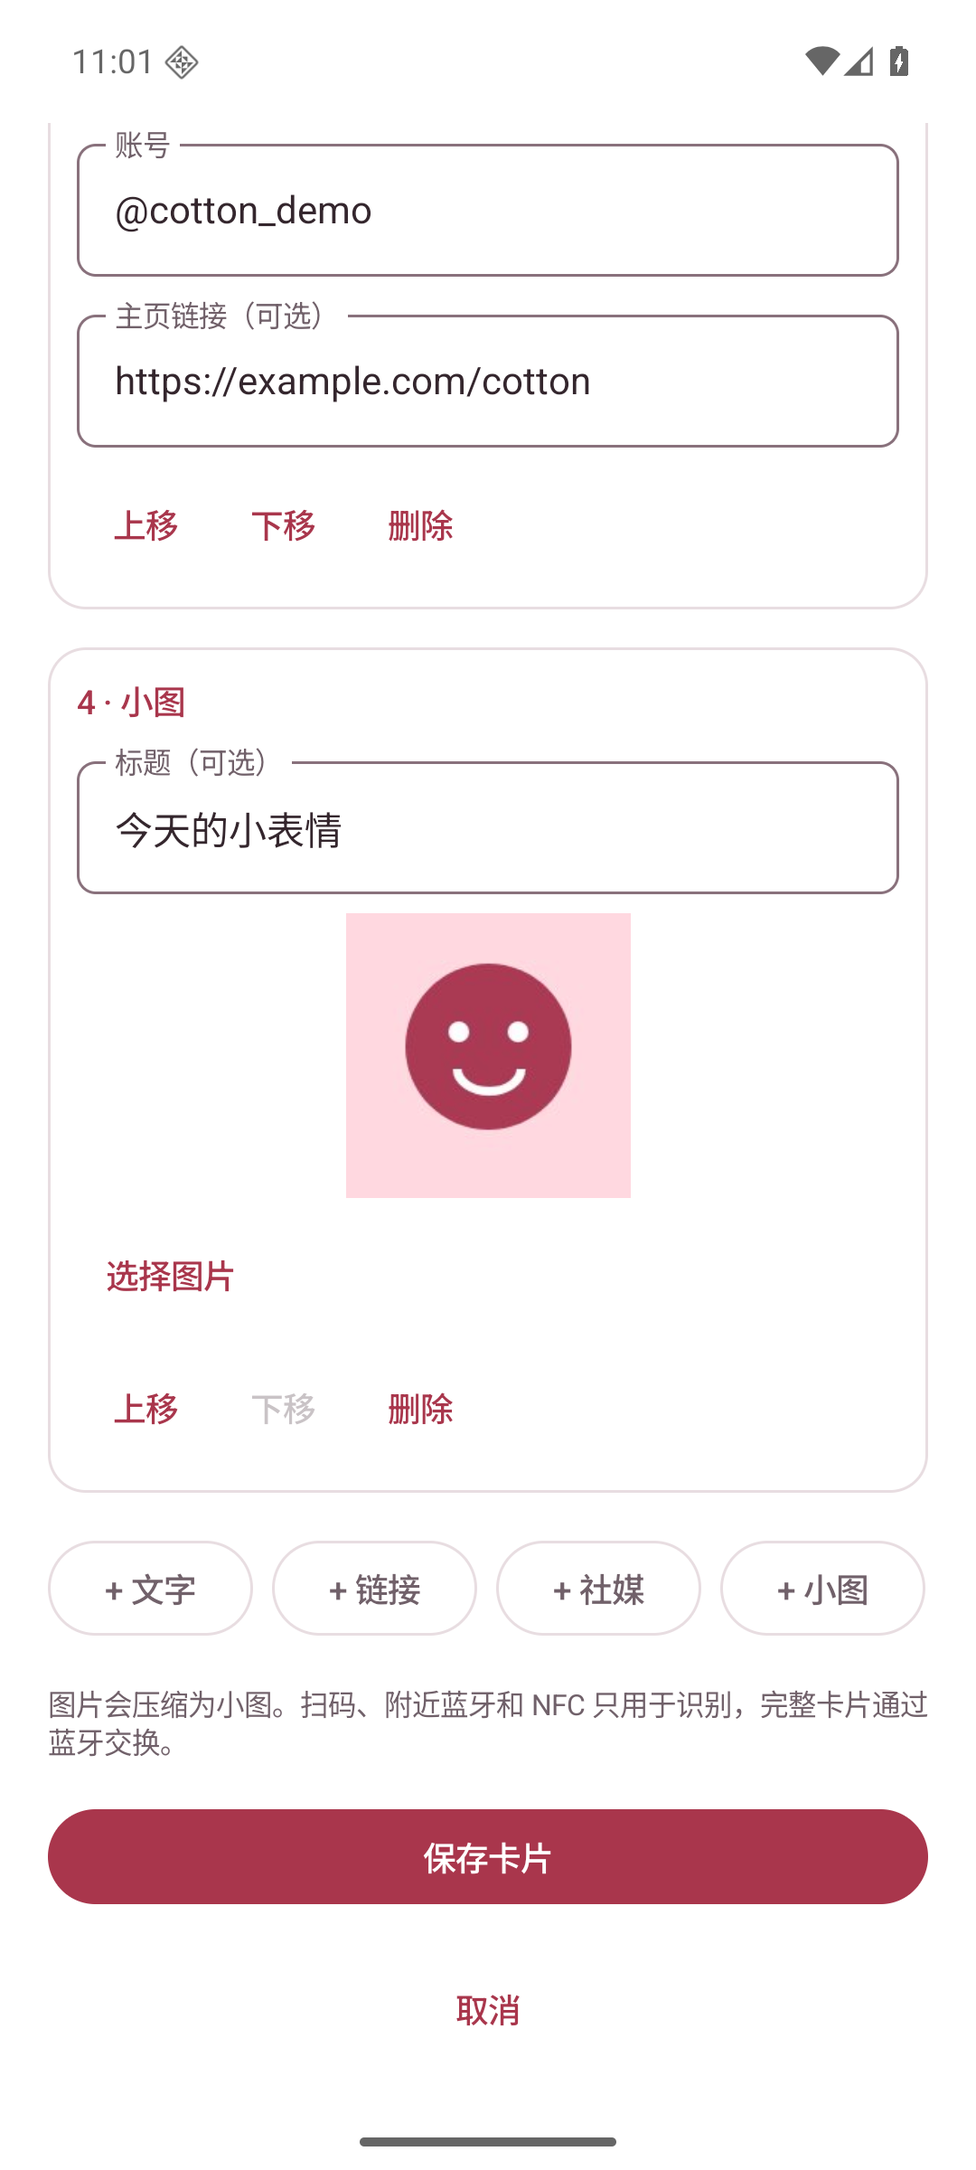
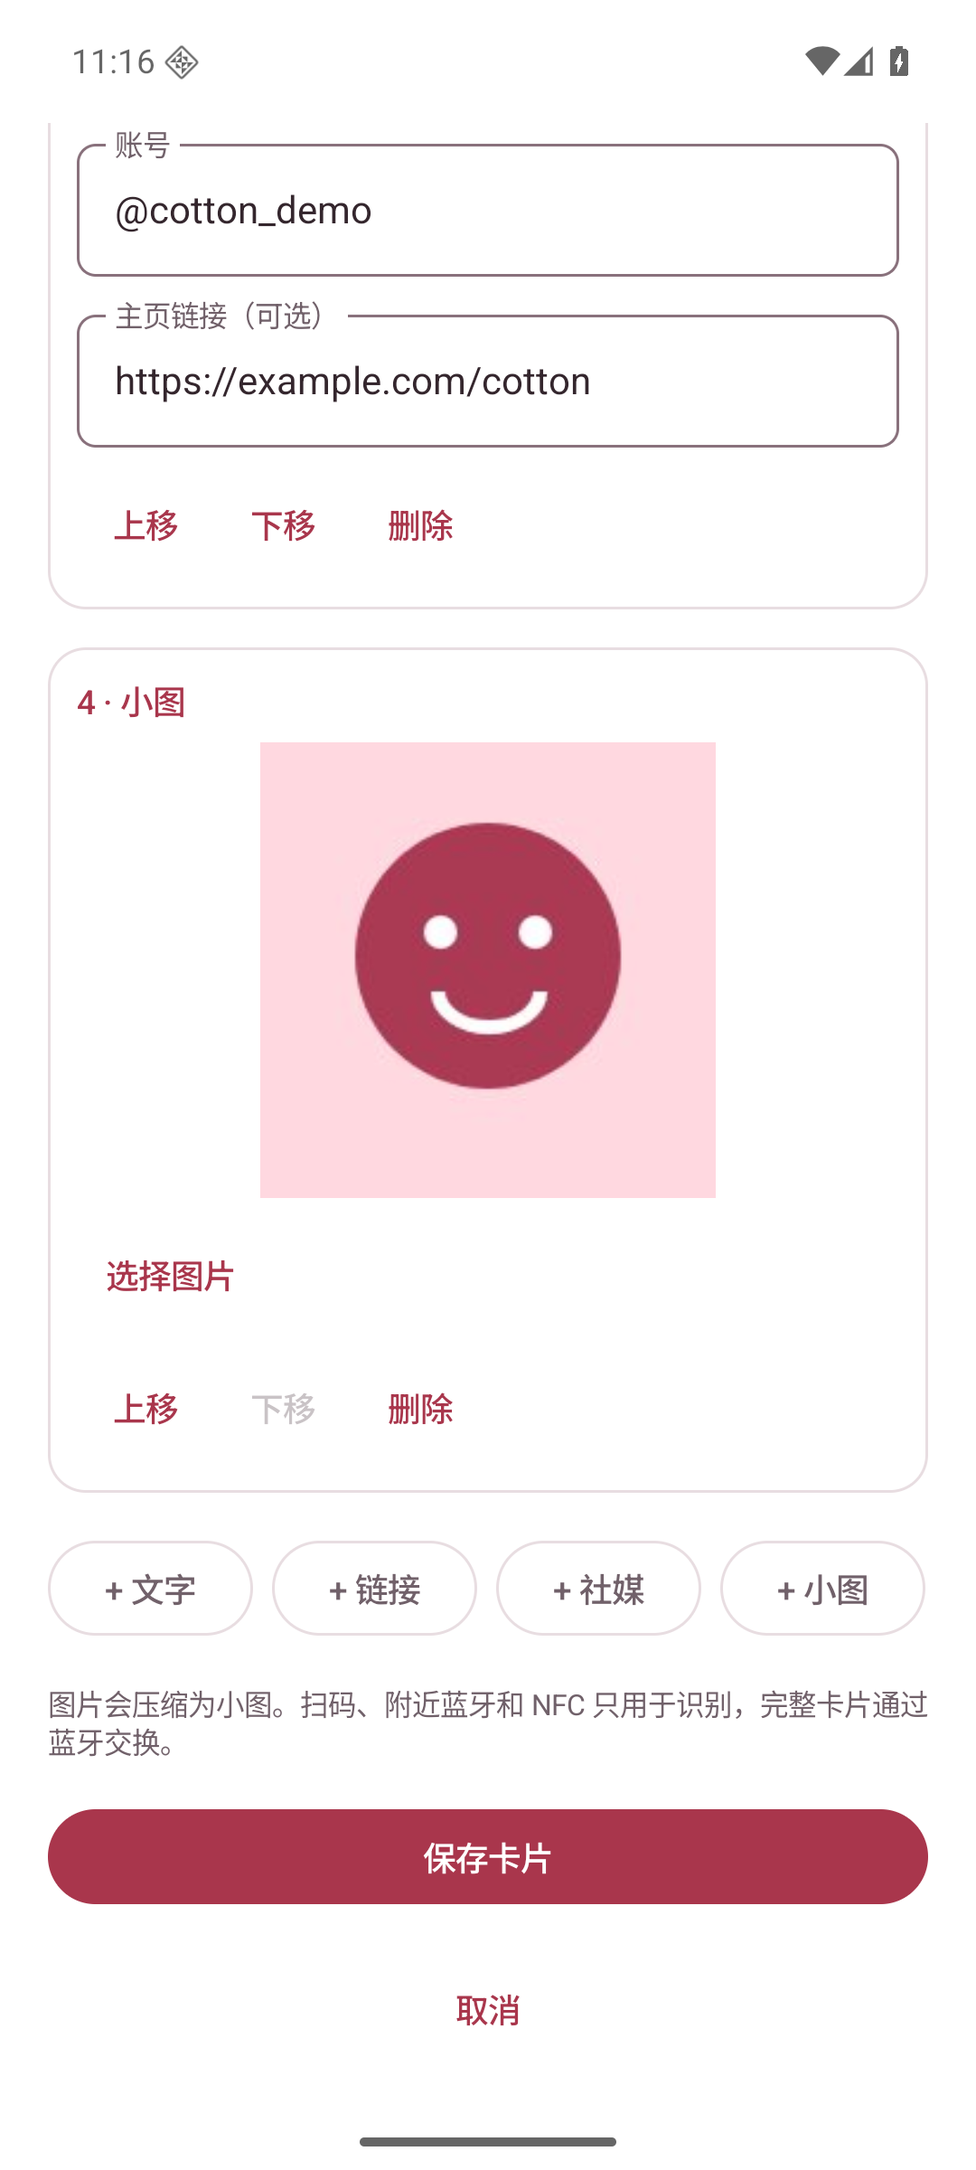
fix: 小图仅展示图片并保留透明轮廓

Changed region(s): [[0.1222, 0.3438, 0.7333, 0.5625], [0.1222, 0.0, 0.1528, 0.0312]]

diff --git a/app/src/main/kotlin/app/pengwa/ui/UserCard.kt b/app/src/main/kotlin/app/pengwa/ui/UserCard.kt
@@ -47,14 +47,12 @@ internal fun UserCardContent(identity: Identity) {
             Text(identity.displayName, style = MaterialTheme.typography.titleLarge)
         }
         identity.card.blocks.forEach { block ->
-            Surface(shape = MaterialTheme.shapes.medium, color = MaterialTheme.colorScheme.surfaceContainer) {
+            if (block.type == BlockType.Image) {
+                CardImage(block.image, block.title.ifBlank { "卡片图片" })
+            } else Surface(shape = MaterialTheme.shapes.medium, color = MaterialTheme.colorScheme.surfaceContainer) {
                 Column(Modifier.fillMaxWidth().padding(16.dp), verticalArrangement = Arrangement.spacedBy(8.dp)) {
                     if (block.title.isNotBlank()) Text(block.title, style = MaterialTheme.typography.titleSmall)
-                    if (block.type == BlockType.Image) {
-                        val image = remember(block.image) { CardImages.decode(block.image) }
-                        if (image != null) Image(image.asImageBitmap(), block.title.ifBlank { "卡片图片" }, Modifier.fillMaxWidth().heightIn(max = 240.dp), contentScale = ContentScale.Fit)
-                        else Text("图片无法显示")
-                    } else if (block.type != BlockType.Link) Text(block.text, style = MaterialTheme.typography.bodyMedium)
+                    if (block.type != BlockType.Link) Text(block.text, style = MaterialTheme.typography.bodyMedium)
                     val url = if (block.type == BlockType.Link) block.text else block.url
                     if (CardCodec.validLink(url)) TextButton(onClick = {
                         runCatching { uriHandler.openUri(url) }.onFailure { error = "无法打开链接，请检查是否安装浏览器" }
@@ -63,6 +61,21 @@ internal fun UserCardContent(identity: Identity) {
             }
         }
         error?.let { Text(it, color = MaterialTheme.colorScheme.error) }
+    }
+}
+
+/** Scale to the available space without cropping, shaping, or painting behind transparent pixels. */
+@Composable
+private fun CardImage(value: String, description: String) {
+    val image = remember(value) { CardImages.decode(value) }
+    if (image == null) {
+        Text("图片无法显示", color = MaterialTheme.colorScheme.onSurfaceVariant)
+        return
+    }
+    BoxWithConstraints(Modifier.fillMaxWidth(), contentAlignment = Alignment.Center) {
+        val ratio = image.width.toFloat() / image.height
+        val width = minOf(maxWidth, image.width.dp, 240.dp * ratio)
+        Image(image.asImageBitmap(), description, Modifier.width(width).aspectRatio(ratio), contentScale = ContentScale.Fit)
     }
 }
 
@@ -130,12 +143,11 @@ internal fun CardEditorContent(
                 OutlinedCard(Modifier.fillMaxWidth()) {
                     Column(Modifier.padding(12.dp), verticalArrangement = Arrangement.spacedBy(8.dp)) {
                         Text("${index + 1} · ${block.type.label()}", style = MaterialTheme.typography.labelLarge, color = MaterialTheme.colorScheme.primary)
-                        OutlinedTextField(block.title, { changeBlock(index, block.copy(title = it)) }, label = { Text(if (block.type == BlockType.Social) "社媒平台" else "标题（可选）") }, modifier = Modifier.fillMaxWidth())
+                        if (block.type != BlockType.Image) OutlinedTextField(block.title, { changeBlock(index, block.copy(title = it)) }, label = { Text(if (block.type == BlockType.Social) "社媒平台" else "标题（可选）") }, modifier = Modifier.fillMaxWidth())
                         if (block.type != BlockType.Image) OutlinedTextField(block.text, { changeBlock(index, block.copy(text = it)) }, label = { Text(when (block.type) { BlockType.Link -> "https://…"; BlockType.Social -> "账号"; else -> "文字内容" }) }, modifier = Modifier.fillMaxWidth())
                         if (block.type == BlockType.Social) OutlinedTextField(block.url, { changeBlock(index, block.copy(url = it)) }, label = { Text("主页链接（可选）") }, modifier = Modifier.fillMaxWidth())
                         if (block.type == BlockType.Image) {
-                            val image = remember(block.image) { CardImages.decode(block.image) }
-                            if (image != null) Image(image.asImageBitmap(), "已选择的图片", Modifier.fillMaxWidth().height(120.dp), contentScale = ContentScale.Fit)
+                            if (block.image.isNotEmpty()) CardImage(block.image, "已选择的图片")
                             TextButton(onClick = { imageTarget = index; picker.launch(PickVisualMediaRequest(ActivityResultContracts.PickVisualMedia.ImageOnly)) }, enabled = !loading) { Text("选择图片") }
                         }
                         Row {

diff --git a/app/src/debug/kotlin/app/pengwa/ui/CustomCardPreview.kt b/app/src/debug/kotlin/app/pengwa/ui/CustomCardPreview.kt
@@ -16,10 +16,11 @@ import java.io.ByteArrayOutputStream
 import java.util.Base64
 import java.util.UUID
 
-private fun sampleImage(): String {
-    val bitmap = Bitmap.createBitmap(192, 192, Bitmap.Config.ARGB_8888)
+private fun sampleImage(width: Int = 192, height: Int = 192, transparent: Boolean = false): String {
+    val bitmap = Bitmap.createBitmap(width, height, Bitmap.Config.ARGB_8888)
     val canvas = Canvas(bitmap)
-    canvas.drawColor(0xffffd9df.toInt())
+    canvas.scale(width / 192f, height / 192f)
+    if (!transparent) canvas.drawColor(0xffffd9df.toInt())
     val paint = Paint(Paint.ANTI_ALIAS_FLAG).apply { color = 0xffaa3953.toInt() }
     canvas.drawCircle(96f, 90f, 56f, paint)
     paint.color = 0xffffffff.toInt()
@@ -27,7 +28,7 @@ private fun sampleImage(): String {
     canvas.drawCircle(116f, 80f, 7f, paint)
     canvas.drawArc(75f, 90f, 118f, 120f, 0f, 180f, false, paint.apply { style = Paint.Style.STROKE; strokeWidth = 6f })
     return ByteArrayOutputStream().use { output ->
-        bitmap.compress(Bitmap.CompressFormat.JPEG, 85, output)
+        bitmap.compress(if (transparent) Bitmap.CompressFormat.PNG else Bitmap.CompressFormat.JPEG, 85, output)
         bitmap.recycle()
         Base64.getEncoder().encodeToString(output.toByteArray())
     }
@@ -40,15 +41,22 @@ private fun sampleCard() = Identity(UUID(0L, 1L), "小棉花", CardContent(sampl
     CardBlock(BlockType.Image, "今天的小表情", image = sampleImage()),
 )), cardComplete = true)
 
+private fun imageShapesCard() = Identity(UUID(0L, 1L), "小棉花", CardContent(blocks = listOf(
+    CardBlock(BlockType.Image, "横向小图", image = sampleImage(240, 80)),
+    CardBlock(BlockType.Image, "竖向小图", image = sampleImage(64, 192)),
+    CardBlock(BlockType.Image, "透明圆形小图", image = sampleImage(160, 160, transparent = true)),
+    CardBlock(BlockType.Image, "方形小图", image = sampleImage(96, 96)),
+)), cardComplete = true)
+
 @Composable
 internal fun CustomCardPreview(screen: String) {
-    var identity by remember { mutableStateOf(sampleCard()) }
+    var identity by remember { mutableStateOf(if (screen.startsWith("card-images")) imageShapesCard() else sampleCard()) }
     PreviewSurface {
         when (screen) {
-            "card-editor" -> Box(Modifier.systemBarsPadding()) {
+            "card-editor", "card-images-editor" -> Box(Modifier.systemBarsPadding()) {
                 CardEditorContent(identity, { identity = it }, { CardCodec.validate(identity.card) }, {})
             }
-            "card-received" -> ContactDetails(Contact(identity.id, identity.displayName, 1761955200000L, 1761955200000L, 2, identity.card)) {}
+            "card-received", "card-images-received" -> ContactDetails(Contact(identity.id, identity.displayName, 1761955200000L, 1761955200000L, 2, identity.card)) {}
             else -> Column(Modifier.systemBarsPadding().verticalScroll(rememberScrollState()).padding(20.dp), verticalArrangement = Arrangement.spacedBy(16.dp)) {
                 Text("我的卡片", style = MaterialTheme.typography.headlineSmall)
                 UserCardContent(identity)

diff --git a/app/src/main/kotlin/app/pengwa/identity/CardImages.kt b/app/src/main/kotlin/app/pengwa/identity/CardImages.kt
@@ -17,14 +17,30 @@ object CardImages {
             decoder.setTargetSize(maxOf(1, (info.size.width * scale).toInt()), maxOf(1, (info.size.height * scale).toInt()))
             decoder.allocator = ImageDecoder.ALLOCATOR_SOFTWARE
         }
+        val preserveAlpha = !avatar && bitmap.hasAlpha()
+        var current = bitmap
         try {
-            for (quality in listOf(85, 65, 45, 25)) {
-                val out = ByteArrayOutputStream()
-                bitmap.compress(Bitmap.CompressFormat.JPEG, quality, out)
-                if (out.size() <= CardCodec.MAX_IMAGE_BYTES) return Base64.getEncoder().encodeToString(out.toByteArray())
+            while (true) {
+                val qualities = if (preserveAlpha) listOf(100) else listOf(85, 65, 45, 25)
+                for (quality in qualities) {
+                    val out = ByteArrayOutputStream()
+                    current.compress(if (preserveAlpha) Bitmap.CompressFormat.PNG else Bitmap.CompressFormat.JPEG, quality, out)
+                    if (out.size() <= CardCodec.MAX_IMAGE_BYTES) return Base64.getEncoder().encodeToString(out.toByteArray())
+                }
+                if (current.width == 1 && current.height == 1) error("图片无法压缩，请选择其他图片")
+                // Recompute both sides from the original aspect ratio, including very narrow images.
+                val longest = (maxOf(current.width, current.height) * 0.75f).toInt().coerceAtLeast(1)
+                val scale = longest.toFloat() / maxOf(bitmap.width, bitmap.height)
+                val smaller = Bitmap.createScaledBitmap(bitmap,
+                    (bitmap.width * scale).toInt().coerceAtLeast(1),
+                    (bitmap.height * scale).toInt().coerceAtLeast(1), true)
+                if (current !== bitmap) current.recycle()
+                current = smaller
             }
-            error("图片过于复杂，请选择更小的图片")
-        } finally { bitmap.recycle() }
+        } finally {
+            if (current !== bitmap) current.recycle()
+            bitmap.recycle()
+        }
     }
 
     fun decode(value: String): Bitmap? = runCatching {

diff --git a/app/src/main/kotlin/app/pengwa/identity/UserCard.kt b/app/src/main/kotlin/app/pengwa/identity/UserCard.kt
@@ -9,7 +9,7 @@ import java.io.DataOutputStream
 import java.net.URI
 import java.util.Base64
 
-/** Images are bounded JPEG thumbnails, embedded so received cards work offline. */
+/** Images are bounded JPEG/PNG thumbnails, embedded so received cards work offline. */
 enum class BlockType { Text, Link, Social, Image }
 data class CardBlock(val type: BlockType, val title: String = "", val text: String = "", val image: String = "", val url: String = "")
 data class CardContent(val avatar: String = "", val blocks: List<CardBlock> = emptyList())
@@ -29,8 +29,13 @@ object CardCodec {
         if (value.isEmpty()) return true
         if (value.length > MAX_IMAGE_BYTES * 4 / 3 + 4) return false
         val bytes = runCatching { Base64.getDecoder().decode(value) }.getOrNull() ?: return false
-        return bytes.size in 4..MAX_IMAGE_BYTES && bytes[0] == 0xff.toByte() && bytes[1] == 0xd8.toByte() &&
+        if (bytes.size !in 4..MAX_IMAGE_BYTES) return false
+        val jpeg = bytes[0] == 0xff.toByte() && bytes[1] == 0xd8.toByte() &&
             bytes[bytes.size - 2] == 0xff.toByte() && bytes.last() == 0xd9.toByte()
+        val png = bytes.size >= 45 &&
+            bytes.copyOfRange(0, 8).contentEquals(byteArrayOf(0x89.toByte(), 0x50, 0x4e, 0x47, 13, 10, 26, 10)) &&
+            bytes.takeLast(12).toByteArray().contentEquals(byteArrayOf(0, 0, 0, 0, 0x49, 0x45, 0x4e, 0x44, 0xae.toByte(), 0x42, 0x60, 0x82.toByte()))
+        return jpeg || png
     }
 
     fun validate(card: CardContent): String? = when {

diff --git a/app/src/test/kotlin/app/pengwa/identity/CardCodecTest.kt b/app/src/test/kotlin/app/pengwa/identity/CardCodecTest.kt
@@ -67,6 +67,16 @@ class CardCodecTest {
         assertFalse(CardAssembler().append(ByteBuffer.allocate(9).putInt(0).putInt(Int.MAX_VALUE).put(0).array()))
         assertFalse(CardAssembler().append(CardTransfer.ACK))
     }
+    @Test fun `transparent PNG survives card transfer and malformed PNG is rejected`() {
[1 lines of base64/hex data omitted]
+        val identity = card.copy(card = CardContent(blocks = listOf(CardBlock(BlockType.Image, image = png))))
+        assertEquals(identity, CardCodec.decode(CardCodec.encode(identity)))
+        val bytes = Base64.getDecoder().decode(png)
+        for (invalid in listOf(bytes.dropLast(1).toByteArray(), bytes.copyOf().also { it[0] = 0 })) {
+            assertNotNull(CardCodec.validate(CardContent(blocks = listOf(CardBlock(BlockType.Image,
+                image = Base64.getEncoder().encodeToString(invalid))))))
+        }
+    }
     @Test fun `NFC discovery contains only identifier and never full card`() {
         val peer = card.copy(id = UUID.randomUUID(), displayName = "小蓝")
         var discovered: Identity? = null

diff --git a/app/src/debug/kotlin/app/pengwa/ui/UiPreviewActivity.kt b/app/src/debug/kotlin/app/pengwa/ui/UiPreviewActivity.kt
@@ -14,7 +14,7 @@ class UiPreviewActivity : ComponentActivity() {
         val index = intent.getIntExtra("sample", 0)
         setContent {
             when (screen) {
-                "card", "card-editor", "card-received" -> CustomCardPreview(screen)
+                "card", "card-editor", "card-received", "card-images", "card-images-editor", "card-images-received" -> CustomCardPreview(screen)
                 "nearby-dedup" -> NearbyDedupPreview(index)
                 "bluetooth" -> BluetoothPagePreview(BluetoothPreviewProvider().values.toList().let { it[index.coerceIn(it.indices)] })
                 "contacts" -> ContactsScreenPreview(ContactsPreviewProvider().values.toList().let { it[index.coerceIn(it.indices)] })

diff --git a/docs/screenshots/image-only/README.md b/docs/screenshots/image-only/README.md
@@ -1,0 +1,46 @@
+# 小图仅展示图片与自由形状
+
+PR #16 的后续调整：小图在预览和联系人详情中移除标题、底框、内边距和裁切，保留原始宽高比。
+编辑页仅提供图片选择／排序／删除，不再提供图片标题输入；旧标题仍保留在数据中作为无障碍描述。
+透明图片使用 PNG 导入并随卡片传输，保持不规则轮廓；超过单图 12 KiB 时继续按比例缩小。
+
+## 运行截图
+
+Android Emulator `sdk_gphone64_x86_64` / AVD `PengWaIcon`，Android 16 / API 36，1080×2400，density 420。
+全部为运行中的 Debug APK，通过 adb screencap 获取；复用实际编辑／展示组件，非 Layoutlib 截图。
+所有数据为固定合成姓名、UUID 和测试图片，无真实用户信息。对比使用同一组图片：
+横图 240×80、竖图 64×192、透明圆形 PNG 160×160、方图 96×96。
+
+| 页面／状态 | 变更前 | 变更后 |
+| --- | --- | --- |
+| 图片卡片／浅色 | ![](shapes-before-light.png) | ![](shapes-after-light.png) |
+| 图片卡片／深色 | ![](shapes-before-dark.png) | ![](shapes-after-dark.png) |
+| 编辑／浅色 | ![](editor-before-light.png) | ![](editor-after-light.png) |
+| 编辑／深色 | ![](editor-before-dark.png) | ![](editor-after-dark.png) |
+| 收到的卡片／浅色 | ![](received-before-light.png) | ![](received-after-light.png) |
+| 收到的卡片／深色 | ![](received-before-dark.png) | ![](received-after-dark.png) |
+
+窄屏（320×640 dp、1.5 倍字体）：[图片展示](shapes-narrow-large-font.png)、[编辑](editor-narrow-large-font.png)。
+
+复现：
+
+```sh
+adb shell am force-stop app.pengwa.debug
+adb shell am start -n app.pengwa.debug/app.pengwa.ui.UiPreviewActivity --es screen card-images
+# card-images-editor 为编辑；card-images-received 为收到的卡片。
+# 深色：adb shell cmd uimode night yes；浅色：adb shell cmd uimode night no。
+```
+
+## 验证
+
+- `testDebugUnitTest assembleDebug lintDebug`：180 项单元测试通过，构建与 Lint 无 error。
+- 新测试验证透明 PNG 内容经卡片编码完整保留，损坏的 PNG 首尾被拒绝。
+- 模拟器检查横图、竖图、方图与透明圆形的完整轮廓，深浅主题下不出现额外底框或标题。
+- 编辑页移除图片标题字段，图片预览与卡片展示使用同一组件。
+- 实际 MainActivity 通过系统照片选择器导入 480×240 的透明 PNG，保存并强制结束后重开；存储结果为 384×192 PNG，保持 2:1 原比例，透明角像素 alpha=0，大小小于 12 KiB。
+
+实际导入、保存和重启后的测试卡片：
+
+![](transparent-import-after.png)
+
+本次不改变 BLE 传输流程；双真机完整链路仍待原 PR 所列硬件验收。

diff --git a/docs/protocol.md b/docs/protocol.md
@@ -41,12 +41,13 @@ NFC 和新版二维码共用 `exchange/PeerDiscovery.kt`：
 `identity/UserCard.kt` 定义完整卡片及编解码：
 
 - ID、显示名。
-- 可选头像：JPEG 缩略图的 Base64。
+- 可选头像：缩略图的 Base64（JPEG／PNG）。
 - 有序内容块，最多 12 个：Text、Link、Social、Image。
 - 每个块包含类型、标题、文字、图片和可选主页 URL。标题最多 60 个 UTF-16 code unit，文字和 URL 最多 1000。
 - Link 的正文是完整 HTTP(S) URL；Social 的文字是账号，URL 是可选主页。禁止其他协议及带用户凭据的链接。
-- 系统图片选择器导入时先缩小再重新编码 JPEG，移除原始元数据。头像最长边 192 像素，小图最长边 384 像素；单图压缩后最多 12 KiB。
-- 接收端校验 Base64、JPEG 首尾标志和体积；展示前检查图像尺寸不超过 1024×1024，不能解码时显示占位提示。
+- 系统图片选择器导入时先缩小再重新编码，移除原始元数据；小图有 alpha 通道时使用 PNG 保留透明轮廓，其余使用 JPEG。头像最长边 192 像素，小图最长边 384 像素；单图压缩后最多 12 KiB；超限时继续等比例缩小。
+- 接收端校验 Base64、JPEG 或 PNG 首尾标志和体积；展示前检查图像尺寸不超过 1024×1024，不能解码时显示占位提示。
+- 小图块在预览和收到的卡片中只展示图片，不展示标题、卡片底框或圆角裁剪；编辑区不提供小图标题输入。横图、竖图和透明不规则图按原比例缩放到可用空间。旧标题保留作无障碍描述，不改变原数据格式。
 - 整张编码后的卡片上限 96 KiB；超限保存失败，编辑草稿保留。
 
 ### 编码

diff --git a/docs/screenshots/custom-card/README.md b/docs/screenshots/custom-card/README.md
@@ -64,7 +64,7 @@ adb shell settings put system font_scale 1.0
 
 ## 已验证
 
-- `testDebugUnitTest`：179 项通过，0 失败。覆盖原有逻辑及完整卡片编解码、96 KiB 总限额、
+- `testDebugUnitTest`：180 项通过，0 失败。覆盖原有逻辑及完整卡片编解码、96 KiB 总限额、
   12 KiB 图片参与的多包传输、MTU 23/64/247/517、重复／跳包／总长变更／超限拒绝、
   不安全链接、NFC 仅含标识、旧 NFC 不兼容、新二维码不包含卡片字段、旧二维码仅提取标识。
 - `assembleDebug`、`lintDebug` 成功；Lint 没有 error，仍有 SDK／资源／依赖等 warning。
@@ -98,3 +98,5 @@ bash gradlew testDebugUnitTest assembleDebug lintDebug --console=plain
 
 后续 PR 描述应内嵌上述已有界面对比与新增页面截图，并明确保留这些未验证项；
 这些截图证明运行界面和本地操作，不代表双机通信已验收。
+
+小图纯图片展示、透明 PNG 导入和自由比例的补充验证见 [小图截图](../image-only/README.md)。

diff --git a/README.md b/README.md
@@ -11,7 +11,7 @@
 
 ## 当前开发版本：可自定义用户卡片
 
-用户卡片新增头像，以及可添加、编辑、删除、排序的文字、链接、社媒和小图内容块，支持保存和预览。
+用户卡片新增头像，以及可添加、编辑、删除、排序的文字、链接、社媒和小图内容块，支持保存和预览。小图只展示图片，保留原始比例和透明轮廓，不加标题或底框。
 **扫码、附近蓝牙列表和 NFC 碰一碰都只负责识别对方，完整卡片统一通过蓝牙 BLE 分块交换。**
 只有完整接收并确认后才入集邮册；二维码与 NFC 识别本身不再导入名片。扫码后需对方确认蓝牙申请；NFC 双向识别可短时自动确认对应设备。
 
